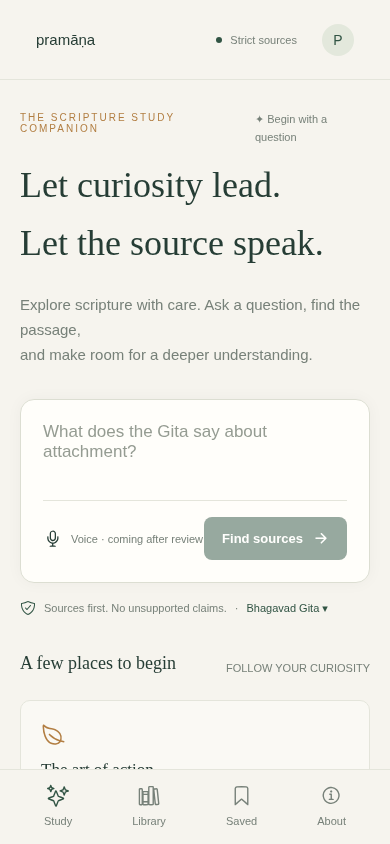
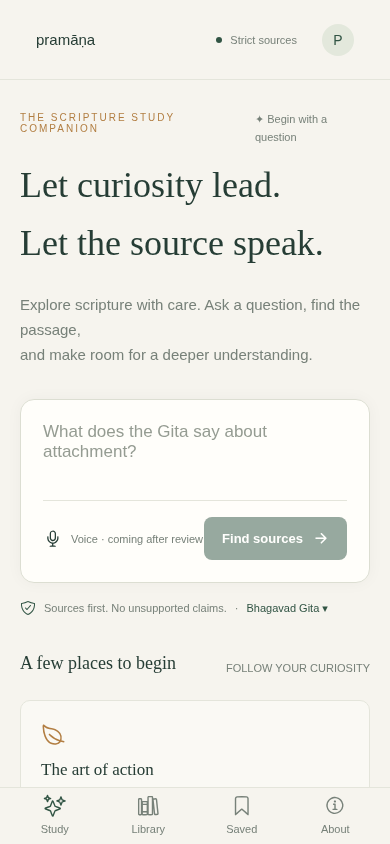
Respect Android system safe areas and compact bottom navigation

Changed region(s): [[0.0923, 0.8934, 0.4308, 0.9858], [0.8, 0.9242, 0.8923, 0.9858], [0.5846, 0.9242, 0.6769, 0.9858]]

diff --git a/apps/mobile/App.tsx b/apps/mobile/App.tsx
@@ -1,6 +1,5 @@
 import React, { useEffect, useState } from "react";
 import {
-  SafeAreaView,
   ScrollView,
   View,
   Text,
@@ -12,6 +11,11 @@ import {
   ActivityIndicator,
   Platform,
 } from "react-native";
+import {
+  SafeAreaProvider,
+  SafeAreaView,
+  initialWindowMetrics,
+} from "react-native-safe-area-context";
 import { Ionicons } from "@expo/vector-icons";
 import AsyncStorage from "@react-native-async-storage/async-storage";
 import type { Answer, Passage } from "../../packages/citation-schema";
@@ -82,6 +86,13 @@ function PassageCard({
   );
 }
 export default function App() {
+  return (
+    <SafeAreaProvider initialMetrics={initialWindowMetrics}>
+      <StudyApp />
+    </SafeAreaProvider>
+  );
+}
+function StudyApp() {
   const { width } = useWindowDimensions(),
     wide = width > 850;
   const [tab, setTab] = useState("Study"),
@@ -177,7 +188,7 @@ export default function App() {
   ] as const;
 
   return (
-    <SafeAreaView style={s.root}>
+    <SafeAreaView style={s.root} edges={["top", "right", "bottom", "left"]}>
       <View style={[s.shell, !wide && { flexDirection: "column" }]}>
         {wide && (
           <View style={s.sidebar}>
@@ -668,7 +679,7 @@ export default function App() {
                     setTab(name);
                     setReader(null);
                   }}
-                  style={{ alignItems: "center", gap: 4 }}
+                  style={s.tabItem}
                 >
                   <Icon name={icon} color={tab === name ? C.green : C.muted} />
                   <Text style={s.small}>{name}</Text>
@@ -933,10 +944,19 @@ const s = StyleSheet.create({
     justifyContent: "center",
     alignItems: "center",
   },
+  tabItem: {
+    flex: 1,
+    minHeight: 44,
+    justifyContent: "center",
+    alignItems: "center",
+    gap: 2,
+  },
   bottomNav: {
     flexDirection: "row",
     justifyContent: "space-around",
-    padding: 14,
+    paddingHorizontal: 8,
+    paddingVertical: 6,
+    minHeight: 56,
     borderTopWidth: 1,
     borderColor: C.line,
     backgroundColor: C.paper,

diff --git a/docs/verification.md b/docs/verification.md
@@ -12,3 +12,5 @@ Validated 9 October 2026:
 Screenshots: `study-desktop.png`, `study-mobile.png`.
 
 Not completed: source licensing and human review, all-18 ingestion, semantic RAG, independent claim entailment model, production database/auth, signed APK/AAB, live voice, store release, 250-question benchmark, native-device testing.
+
+Bottom navigation now uses react-native-safe-area-context for system insets and a compact 56-point bar with 44-point minimum tab targets. TypeScript and Android export passed after the change; native navigation-mode testing remains pending.
